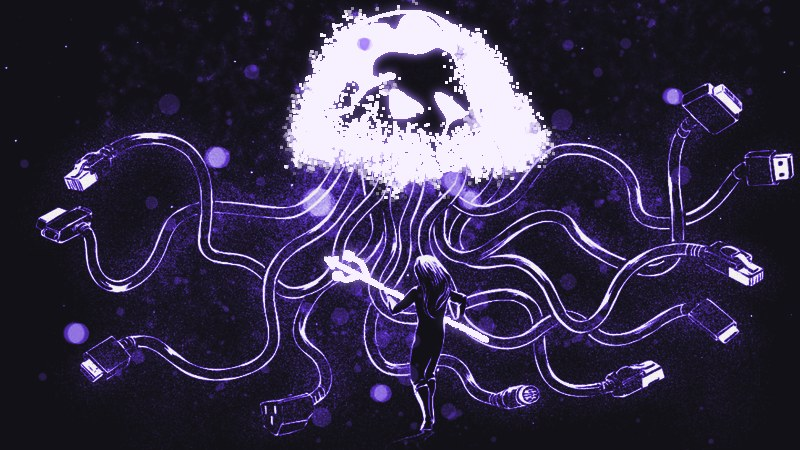
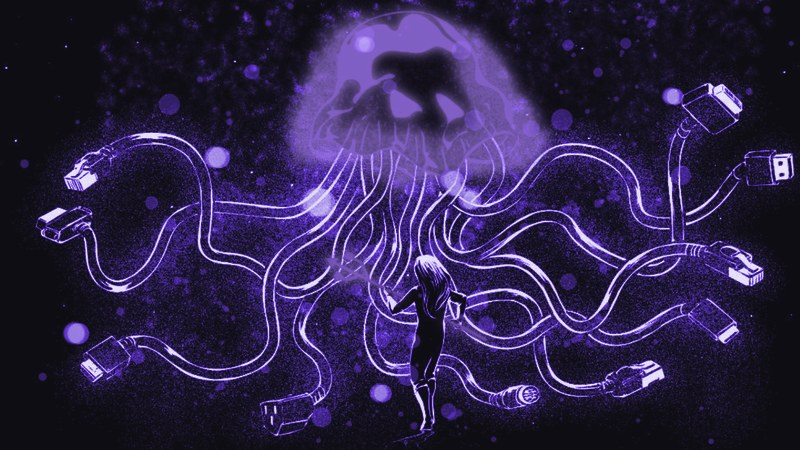
Replace 13 case cards with darker v2 art; add tools/recolor2.py
The v2 cards match the tone of the three incident cards. recolor2.py is the
script that made them, kept for future cards (auto-inverts light-paper art).

diff --git a/tools/recolor2.py b/tools/recolor2.py
@@ -1,0 +1,92 @@
+"""Recolor any artwork into the TRWBCY portfolio purple, matched to the dark card set.
+
+v2 of recolor_purple.py, built for mixed source art (light paper, large color fields):
+  - light-paper art is inverted automatically, so every card sits on a dark ground
+  - overall tone is pulled down to the same darkness as the other cards
+  - color areas become a richer violet instead of a white glow, so big blue/red
+    fields no longer blow out; small accents still get a soft glow
+
+Usage:
+    python recolor2.py input.png [output.jpg] [--invert | --no-invert]
+Writes an 800x450 JPG (default: <input>-card-800x450.jpg).
+Needs: pip install pillow numpy
+"""
+import sys
+from pathlib import Path
+
+import numpy as np
+from PIL import Image, ImageFilter, ImageOps
+
+
+def hx(h):
+    return np.array([int(h[i:i + 2], 16) for i in (1, 3, 5)], dtype=float)
+
+
+STOPS = [(0.0, hx('#0E0D12')), (0.22, hx('#1C1630')), (0.58, hx('#5B2FC9')),
+         (0.88, hx('#B4A0EE')), (1.0, hx('#EAE4FA'))]
+VIOLET = hx('#9B6BFF')   # tint for colored areas
+GLOW = hx('#B48CFF')     # soft glow around small accents
+TARGET_MEAN = 0.27       # average brightness of the finished card
+
+
+def gradient(t):
+    out = np.zeros(t.shape + (3,))
+    for (t0, c0), (t1, c1) in zip(STOPS, STOPS[1:]):
+        m = (t >= t0) & (t <= t1)
+        k = ((t - t0) / (t1 - t0))[m][:, None]
+        out[m] = c0 + (c1 - c0) * k
+    return out
+
+
+def recolor(src, size=(800, 450), invert=None, centering=(0.5, 0.45)):
+    im = ImageOps.fit(src.convert('RGB'), size, Image.LANCZOS, centering=centering)
+    rgb = np.asarray(im).astype(float) / 255
+    g = np.asarray(ImageOps.grayscale(im)).astype(float) / 255
+
+    # light paper -> invert, judged from the border
+    b = max(4, size[1] // 25)
+    border = np.concatenate([g[:b].ravel(), g[-b:].ravel(), g[:, :b].ravel(), g[:, -b:].ravel()])
+    if invert is None:
+        invert = border.mean() > 0.55
+    if invert:
+        g = 1 - g
+
+    # stretch, then pull the overall tone to the card set's darkness
+    lo, hi = np.percentile(g, 1), np.percentile(g, 99.5)
+    g = np.clip((g - lo) / max(1e-3, hi - lo), 0, 1)
+    m = max(1e-3, min(0.999, g.mean()))
+    gamma = float(np.clip(np.log(TARGET_MEAN) / np.log(m), 0.7, 2.6))
+    g = g ** gamma
+
+    base = gradient(g)
+
+    # colored areas: saturation from the source
+    mx, mn = rgb.max(2), rgb.min(2)
+    sat = np.where(mx > 0, (mx - mn) / np.maximum(mx, 1e-3), 0)
+    acc = np.clip((sat - 0.30) / 0.30, 0, 1) * (mx > 0.2)
+    acc_img = Image.fromarray((acc * 255).astype('uint8')).filter(ImageFilter.GaussianBlur(1))
+    acc = np.asarray(acc_img).astype(float) / 255
+    area = acc.mean()
+
+    # tint colored areas violet, keeping their light and shade
+    lum = np.clip(0.25 + 0.85 * g, 0, 1)[..., None]
+    tinted = VIOLET * lum
+    out = base * (1 - acc[..., None] * 0.75) + tinted * (acc[..., None] * 0.75)
+
+    # small accents (under ~7% of the frame) also get a soft glow
+    if area < 0.07:
+        glow = np.asarray(acc_img.filter(ImageFilter.GaussianBlur(size[0] / 140))).astype(float) / 255
+        glow = np.clip(glow * 1.8, 0, 1)[..., None] * 0.45
+        out = out * (1 - glow) + GLOW * glow
+
+    return Image.fromarray(np.clip(out, 0, 255).astype('uint8')), invert, area
+
+
+if __name__ == '__main__':
+    args = [a for a in sys.argv[1:] if not a.startswith('--')]
+    inv = True if '--invert' in sys.argv else False if '--no-invert' in sys.argv else None
+    src = Path(args[0])
+    dst = Path(args[1]) if len(args) > 1 else src.with_name(src.stem + '-card-800x450.jpg')
+    img, used_inv, area = recolor(Image.open(src), invert=inv)
+    img.save(dst, quality=88)
+    print(f'{dst}  invert={used_inv}  color-area={area:.1%}')
